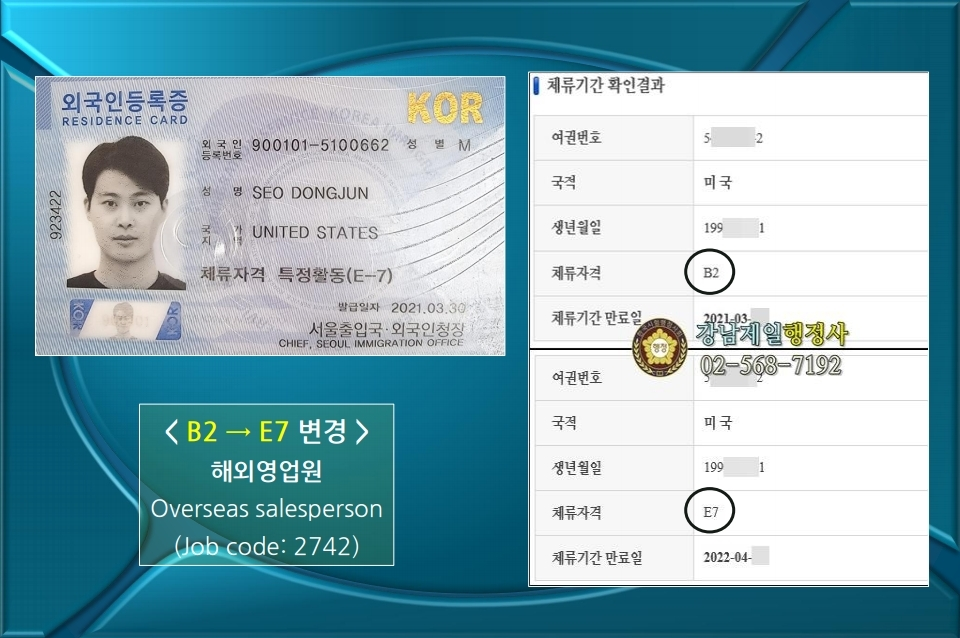
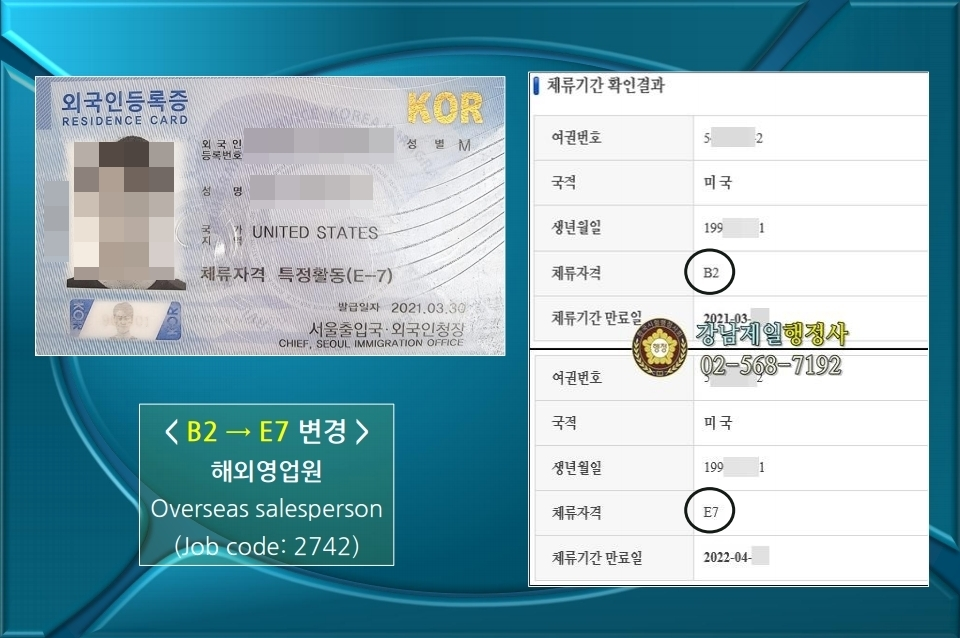
Update success story image and refresh cache version.
Include the mosaicked 07.jpg success story image and bump the story image cache-bust query so the updated file appears immediately after deploy.

Changed region(s): [[0.0312, 0.2085, 0.1875, 0.4467], [0.25, 0.1787, 0.4062, 0.3276]]

diff --git a/src/data/successStories.ts b/src/data/successStories.ts
@@ -102,5 +102,5 @@ export const SUCCESS_STORIES: SuccessStory[] = [
 ];
 
 export function storyImageSrc(fileName: string) {
-  return `/images/stories/${fileName}?v=5`;
+  return `/images/stories/${fileName}?v=6`;
 }
